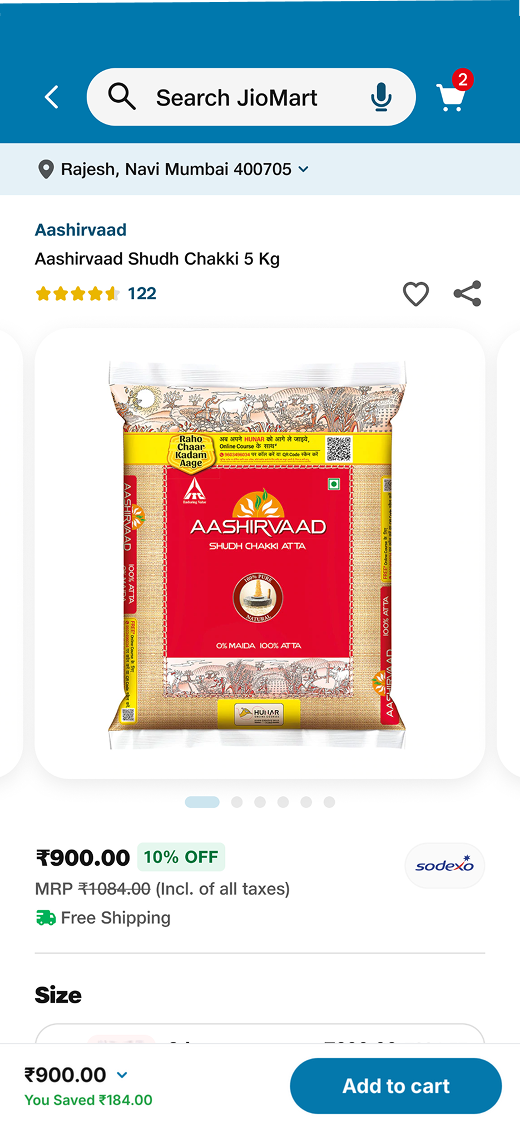
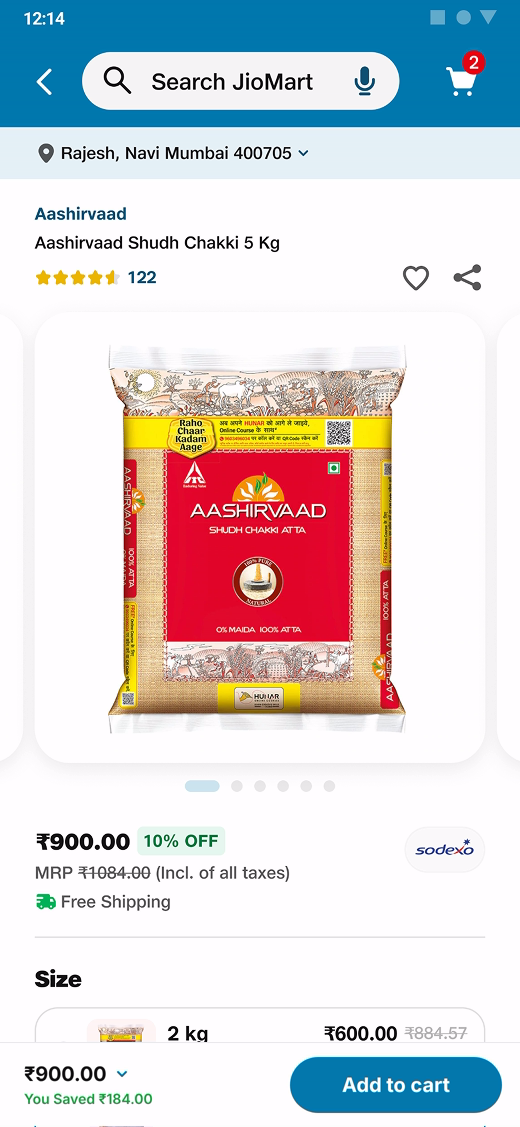
JioMart: replace V1 PDP screenshot with the updated full-page PDP
New full-page PDP (fixed app bar, no broken section) used for the
scrolling V1 PDP on the case study and deck; above-the-fold crop rebuilt
from it with the sticky Add to cart bar. Bump image cache keys to v4.

diff --git a/jiomart-discovery.html b/jiomart-discovery.html
@@ -78,7 +78,7 @@
               <div class="phone phone-front">
                 <div class="phone-screen">
                   <img
-                    src="./images/enhanceProduct/enhance-v1-pdp-fold.png?v=2"
+                    src="./images/enhanceProduct/enhance-v1-pdp-fold.png?v=4"
                     alt="Redesigned JioMart discovery experience — V1 product page"
                   />
                 </div>
@@ -437,7 +437,7 @@
             </figure>
             <figure class="after">
               <figcaption>My design · V1</figcaption>
-              <div class="shot mock tall has-cta"><span class="mock-notch"></span><div class="mock-scroll"><img src="./images/enhanceProduct/enhance-v1-pdp-full.png" alt="PDP V1" /></div><img class="pdp-cta" src="./images/enhanceProduct/enhance-v1-pdp-cta.png?v=2" alt="" aria-hidden="true" /></div>
+              <div class="shot mock tall has-cta"><span class="mock-notch"></span><div class="mock-scroll"><img src="./images/enhanceProduct/enhance-v1-pdp-full.png?v=4" alt="PDP V1" /></div><img class="pdp-cta" src="./images/enhanceProduct/enhance-v1-pdp-cta.png?v=2" alt="" aria-hidden="true" /></div>
             </figure>
           </div>
         </div>
@@ -509,9 +509,9 @@
             <figure class="iter-mock">
               <span class="mockf"><span class="mockf-notch"></span><span class="mockf-scroll">
                 <img data-before="./images/enhanceProduct/enhance-problem-pdp-nobar.png"
-                     data-v1="./images/enhanceProduct/enhance-v1-pdp-full.png"
+                     data-v1="./images/enhanceProduct/enhance-v1-pdp-full.png?v=4"
                      data-live="./images/enhanceProduct/enhance-v2-pdp-main.png"
-                     src="./images/enhanceProduct/enhance-v1-pdp-full.png" alt="Product detail" />
+                     src="./images/enhanceProduct/enhance-v1-pdp-full.png?v=4" alt="Product detail" />
               </span><img class="pdp-cta" data-cta-stage="v1" src="./images/enhanceProduct/enhance-v1-pdp-cta.png?v=2" alt="" aria-hidden="true" /><img class="pdp-cta old-bar" data-cta-stage="before" hidden src="./images/enhanceProduct/enhance-before-pdp-bar.png" alt="" aria-hidden="true" /></span>
               <figcaption>Product detail</figcaption>
             </figure>

diff --git a/js/jiomart-deck-slides.js b/js/jiomart-deck-slides.js
@@ -170,7 +170,7 @@ window.DECK = {
       headline: ["Making ", "product discovery", " seamless"],
       highlight: "product discovery",
       body: "Shoppers could find products but struggled to choose. I redesigned the journey from Home to product page so deciding feels effortless.",
-      hero: "enhance-v1-pdp-fold.png?v=2",
+      hero: "enhance-v1-pdp-fold.png?v=4",
       backShots: ["enhance-v1-home.png", "enhance-v1-plp.png?v=2"],
       badge: { n: "{{+28%|carts}}", l: "More visits end in a cart" },
       meta: [
@@ -272,7 +272,7 @@ window.DECK = {
       when: ["Until Dec 2022", "Jan – Mar 2023"],
       stages: [
         { img: "enhance-problem-pdp.png", scroll: "enhance-problem-pdp-nobar.png", cta: "enhance-before-pdp-bar.png", ctaH: "37%", n: "Long page, key details buried" },
-        { img: "enhance-v1-pdp-fold.png?v=2", scroll: "enhance-v1-pdp-full.png", cta: "enhance-v1-pdp-cta.png?v=2", n: "Rating, size and offers moved up" }
+        { img: "enhance-v1-pdp-fold.png?v=4", scroll: "enhance-v1-pdp-full.png?v=4", cta: "enhance-v1-pdp-cta.png?v=2", n: "Rating, size and offers moved up" }
       ],
       decisions: {
         title: "Design decisions",
